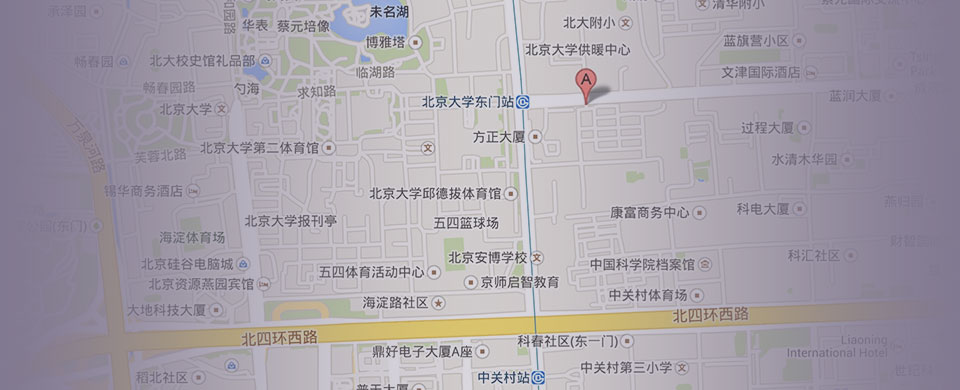
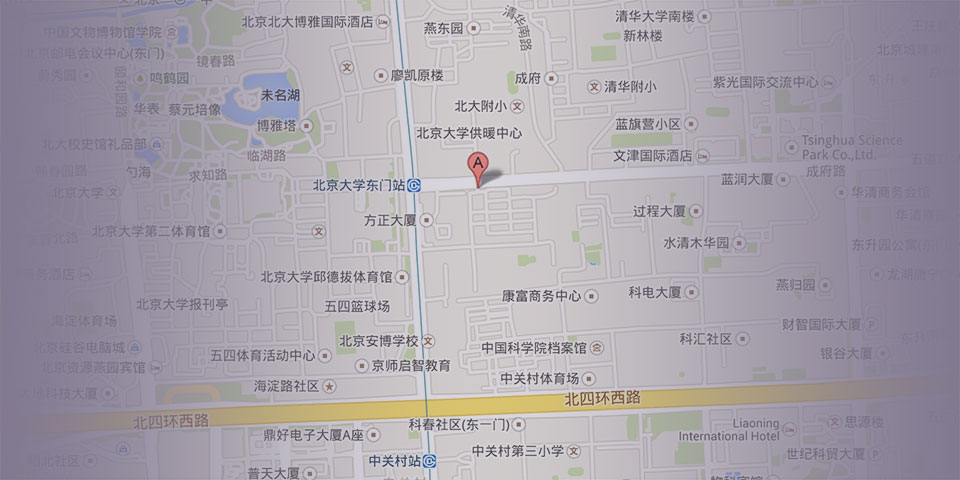
round 4 replace new map and full size venue

diff --git a/source/css/main.css b/source/css/main.css
@@ -356,9 +356,9 @@ img { max-width: 100%; }
 
 .venue {
   background: #80798f url("/img/map.jpg") no-repeat center center;
-  height: 270px;
+  height: 340px;
   border: none;
-  padding-top: 40px;
+  padding-top: 80px;
 }
 .venue .container {
 
